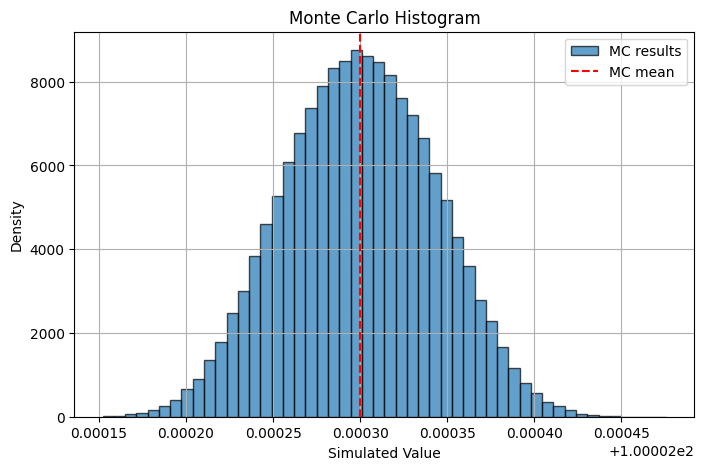
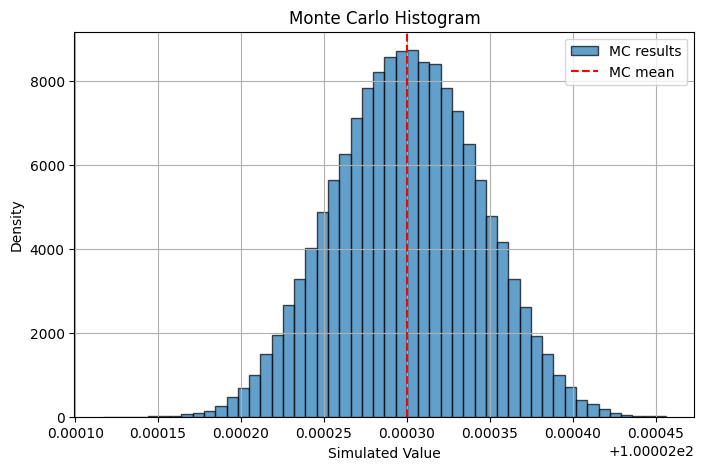
added header text in the certificate

Changed region(s): [[0.0312, 0.0894, 0.9688, 0.9532], [0.0312, 0.3277, 0.0938, 0.3872]]

diff --git a/app.py b/app.py
@@ -151,19 +151,27 @@ def generate_xslt():
 <title>Calibration Certificate</title>
 <style><![CDATA[
 body{font-family:Arial, sans-serif;margin:30px;color:#000}
-.header{display:flex;align-items:flex-start;justify-content:space-between;border-bottom:2px solid #999;padding-bottom:8px;margin-bottom:14px}
-.hdr-left{flex:0 0 120px}
-.hdr-left img{width:120px}
-.hdr-center{flex:1;text-align:left;padding-left:10px}
-.org-hi{color:#c0392b;font-weight:700;font-size:18px;margin:0}
+.header{display:flex;align-items:flex-start;justify-content:flex-start;border-bottom:2px solid #999;padding-bottom:8px;margin-bottom:14px;position:relative}
+.hdr-left{flex:0 0 100px}
+.hdr-left img{width:100px}
+    .hdr-center{flex:1 1 auto;text-align:left;padding-left:10px;min-width:0}
+    .org-hi{color:#c0392b;font-weight:700;font-size:18px;margin:0}
 .org-en{color:#2c3e50;font-weight:700;font-size:16px;margin:2px 0}
-.hdr-right{flex:0 0 260px;border-left:3px solid #ddd;padding-left:12px}
+.header-subtext p{margin:2px 0;font-size:12px;line-height:1.3}
+    .hdr-right{flex:0 0 140px;border-left:3px solid #ddd;padding-left:12px}
 .cert-box{border:1px solid #333;padding:8px}
 .cert-title{font-weight:700;font-size:14px;margin:0 0 6px 0}
 .section-title{background:#003366;color:#fff;padding:8px;margin-top:18px;margin-bottom:10px;font-weight:bold}
 table{border-collapse:collapse;width:100%;margin-bottom:12px}
 th,td{border:1px solid #444;padding:6px;text-align:left}
 th{background:#f1f7fb}
+.footer-signatures{display:flex;flex-wrap:wrap;gap:12px;margin-top:20px}
+.footer-column{flex:1 1 220px;min-width:200px;border:1px solid #444;padding:10px;text-align:left}
+.footer-label{display:flex;justify-content:space-between;gap:12px;font-weight:700;margin-bottom:8px}
+.footer-label span{display:inline-block}
+.footer-en{text-align:left;flex:1}
+.footer-hi{text-align:right;flex:1}
+.footer-placeholder{margin-top:10px;font-size:14px}
 ]]></style>
 </head>
 <body>
@@ -173,6 +181,15 @@ th{background:#f1f7fb}
   <div class="hdr-center">
     <p class="org-hi">सी एस आई आर - राष्ट्रीय भौतिक प्रयोगशाला</p>
     <p class="org-en">CSIR - NATIONAL PHYSICAL LABORATORY</p>
+    <div class="header-subtext">
+      <p>(Council of Scientific and Industrial Research)</p>
+      <p>(National Metrology Institute (NMI), Member BIPM and Signatory CIPM-MRA)</p>
+      <p>Dr. K. S. Krishnan Marg, New Delhi – 110012, INDIA</p>
+      <p>Phone: [phone redacted], 8610, 9447</p>
+      <p>Fax: [phone redacted]</p>
+      <p>E-mail: [[email redacted]]</p>
+      <p>Website: [www.nplindia.org]</p>
+    </div>
   </div>
   <div class="hdr-right"><div class="cert-box"><p class="cert-title">CALIBRATION CERTIFICATE</p><p>Certificate No.: <strong><xsl:value-of select="CalibrationCertificate/CertificateInfo/CertificateNumber"/></strong></p><p>Date: <xsl:value-of select="CalibrationCertificate/CertificateInfo/IssueDate"/></p></div></div>
 </div>
@@ -237,6 +254,41 @@ th{background:#f1f7fb}
   <tr><td>Algorithm</td><td><xsl:value-of select="CalibrationCertificate/DigitalSignature/Algorithm"/></td></tr>
   <tr><td>Signature</td><td><xsl:value-of select="CalibrationCertificate/DigitalSignature/SignatureValue"/></td></tr>
 </table>
+
+<div class="footer-signatures">
+  <div class="footer-column">
+    <p class="footer-label">
+      <span class="footer-en">Calibrated by:</span>
+      <span class="footer-hi">कैलिब्रेटेड बाय:</span>
+    </p>
+    <p>________________________</p>
+    <p>(Name) / (नाम)</p>
+  </div>
+  <div class="footer-column">
+    <p class="footer-label">
+      <span class="footer-en">Checked by:</span>
+      <span class="footer-hi">चेक्ड बाय:</span>
+    </p>
+    <p>________________________</p>
+    <p>(Name) / (नाम)</p>
+  </div>
+  <div class="footer-column">
+    <p class="footer-label">
+      <span class="footer-en">Scientist-in-charge:</span>
+      <span class="footer-hi">वैज्ञानिक प्रभारी:</span>
+    </p>
+    <p>________________________</p>
+    <p>(Name) / (नाम)</p>
+  </div>
+  <div class="footer-column">
+    <p class="footer-label">
+      <span class="footer-en">Issued by:</span>
+      <span class="footer-hi">जारीकर्ता:</span>
+    </p>
+    <p>________________________</p>
+    <p>(Director's Nominee) / (निदेशक का नामित)</p>
+  </div>
+</div>
 
 <div style="margin-top:20px;font-size:12px">Certificate generated automatically.</div>
 